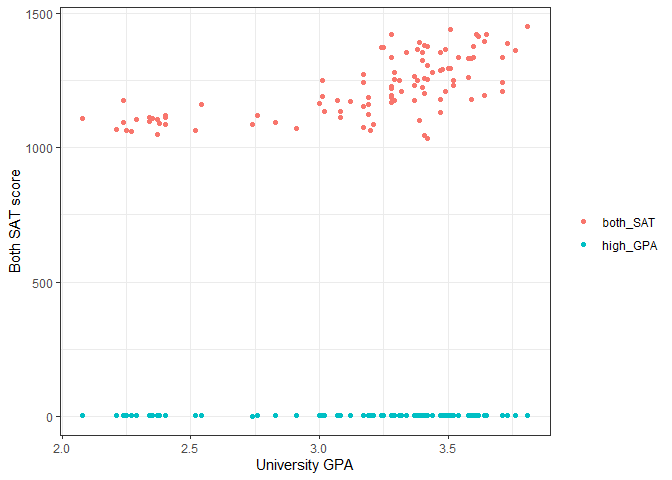
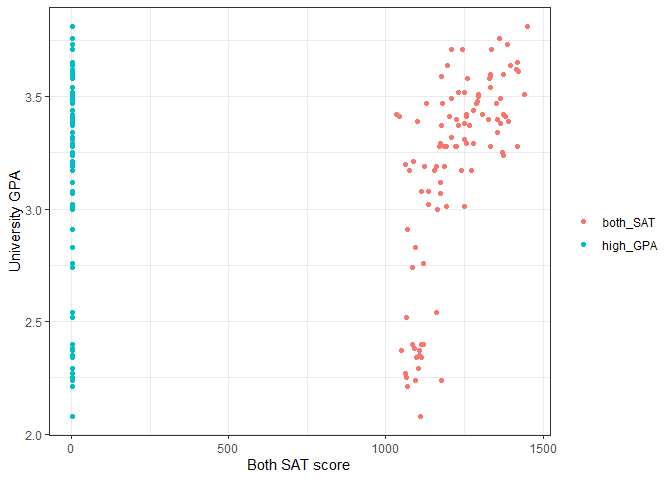
corrections for assignment 10

diff --git a/data-science-curriculum-build/data-science-curriculum-build/challenges/c10-sat-assignment.md b/data-science-curriculum-build/data-science-curriculum-build/challenges/c10-sat-assignment.md
@@ -246,9 +246,9 @@ df_composite_long <- pivot_longer(df_composite, cols = c("high_GPA", "both_SAT")
 
 
 # Create the scatter plot with a regression line
-ggplot(df_composite_long, aes(x = univ_GPA, y = value, color = variable)) +
+ggplot(df_composite_long, aes(x = value, y = univ_GPA, color = variable)) +
   geom_point() +
-  labs(x = "University GPA", y = "Both SAT score", color = "") +
+  labs(y = "University GPA", x = "Both SAT score", color = "") +
   theme_bw()
 ```
 
@@ -374,7 +374,8 @@ cat("Confidence interval for the correlation:", round(cor_test_both_univ$conf.in
 
 - Which correlations are significantly nonzero?
   - I would say both highschool GPA and both SAT were significantly
-    nonzero.
+    nonzero as neither of the CI’s include 0, meaning they are
+    significant.
 - Which of `high_GPA` and `both_SAT` seems to be more strongly
   correlated with `univ_GPA`?
   - high_GPA has a higher correlation with a 0.1 stronger correlation.
@@ -534,10 +535,10 @@ fit_basic %>%
   this coefficient significantly different from zero?
   - 0.00198 to 0.00349
 - By itself, how well does `both_SAT` predict `univ_GPA`?
-  - by itself a 100 increase in sat means roughly a 0.2 increase in GPA,
-    which is not insignificant, but not a good enough indicator of GPA.
-    The r squared value is less thahn 0.5, which means it is pretty
-    weak.
+  - by itself it is a ok as the r squaredvalue is 0.46, which is not
+    great but not bad either, it is also very unlikely that it occured
+    to chance as the p value is very close to 0. roughly for each point
+    in increase of SAT score, the students GPA would go up by 0.002
 
 Remember from `e-model03-interp-warnings` that there are challenges with
 interpreting regression coefficients! Let’s investigate that idea
